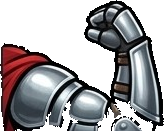
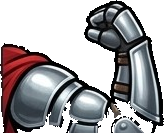
Árbol del Arquero con iconos HD; hojas sin croma toman los colores de la hoja original
Claude-Session: https://claude.ai/code/session_01DTPX1NxnBLpFNa3pZ6sEzH

diff --git a/js/logica/09-clases-y-arbol-de.js b/js/logica/09-clases-y-arbol-de.js
@@ -115,7 +115,7 @@
     ],
   };
   // iconos HD (img/iconos/rama_<id>.png y nodo_<id>.png) de las clases que ya los tienen; las demás siguen con su emoji
-  for (const clase of ['asesino', 'guerrero']) for (const r of ARBOL[clase]) { r.img = 'rama_' + r.id; for (const n of r.nodos) n.img = 'nodo_' + n.id; }
+  for (const clase of ['asesino', 'guerrero', 'arquero']) for (const r of ARBOL[clase]) { r.img = 'rama_' + r.id; for (const n of r.nodos) n.img = 'nodo_' + n.id; }
   // icono de un nodo, rama o especialización: su imagen HD si la tiene, si no su emoji
   const iconoDe = (x, cls = 'ic-txt') => x.img ? `<img class="${cls}" src="img/iconos/${x.img}.png" alt="">` : x.icono;
   const costeReinicio = () => Math.max(500, 100 * jugador.nivel);   // crece con el nivel (8 000 al nivel 80)

diff --git a/tools/iconos_menu.py b/tools/iconos_menu.py
@@ -38,16 +38,25 @@ HOJAS += [('iconos_menu.jpg', 5, 5, NOMBRES, True),
           ('iconos_arbol_guerrero.jpg', 5, 4, ['rama_furia', 'rama_baluarte', 'rama_tactica', 'nodo_fuerza', 'nodo_certero',
             'nodo_estocada_m', 'nodo_sed', 'nodo_aplastante', 'nodo_piel', 'nodo_coraza',
             'nodo_represalia', 'nodo_aliento', 'nodo_bastion', 'nodo_maestria', 'nodo_reflejos',
-            'nodo_tajo_veloz', 'nodo_cazador', 'nodo_adrenalina', '-', '-'], 'gris_texto')]
+            'nodo_tajo_veloz', 'nodo_cazador', 'nodo_adrenalina', '-', '-'], 'gris_texto'),
+          ('iconos_arbol_arquero.jpg', 5, 4, ['rama_precision', 'rama_supervivencia', 'rama_caceria', 'nodo_punteria', 'nodo_ojo_halcon',
+            'nodo_disparo_m', 'nodo_letal', 'nodo_perforante', 'nodo_agilidad', 'nodo_cuero',
+            'nodo_trampas', 'nodo_instinto', 'nodo_camuflaje', 'nodo_rastreo', 'nodo_flecha_ven',
+            'nodo_lluvia_r', 'nodo_penetrante', 'nodo_marca', '-', '-'], 'gris_texto')]
 for hoja, cols, filas, nombres, conBaldosa in HOJAS:
   tmp = tempfile.mkdtemp()
-  uniforme = [] if conBaldosa == 'gris_texto' else ['--uniform']   # sin verde, las celdas se cortan tal cual (el texto queda abajo)
+  # sin verde: celdas tal cual (el texto queda abajo) y un croma que no existe (magenta) para no apagar los verdes del dibujo
+  uniforme = ['--key', 'FF00FF'] if conBaldosa == 'gris_texto' else ['--uniform']
   subprocess.run(['python3', 'tools/split_sheet.py', f'tools/hojas/{hoja}', '--cols', str(cols), '--rows', str(filas), *uniforme, '--out', tmp],
                  check=True, capture_output=True)
   for nombre, f in zip(nombres, sorted(glob.glob(f'{tmp}/*.png'))):
     if nombre == '-': continue
     a = np.array(Image.open(f).convert('RGBA')).astype(int); modo = conBaldosa
     if modo == 'gris_texto':   # nombre abajo (24 %) y fondo gris oscuro liso: se quita rellenando desde el borde
+        # colores de la hoja original (split_sheet apaga los verdes intensos aunque no sean fondo): misma celda de la rejilla
+        k = nombres.index(nombre); hoja_im = Image.open(f'tools/hojas/{hoja}').convert('RGBA'); cw, ch = hoja_im.width / cols, hoja_im.height / filas
+        c0, f0 = k % cols, k // cols
+        a = np.array(hoja_im.crop((round(c0 * cw), round(f0 * ch), round((c0 + 1) * cw), round((f0 + 1) * ch)))).astype(int)
         a = a[:int(a.shape[0] * .74)]; a[..., 3] = 255
         mx = a[..., :3].max(-1); mn = a[..., :3].min(-1); H, W = mx.shape
         pasa = (mx - mn <= 14) & (mx >= 14) & (mx <= 75)
